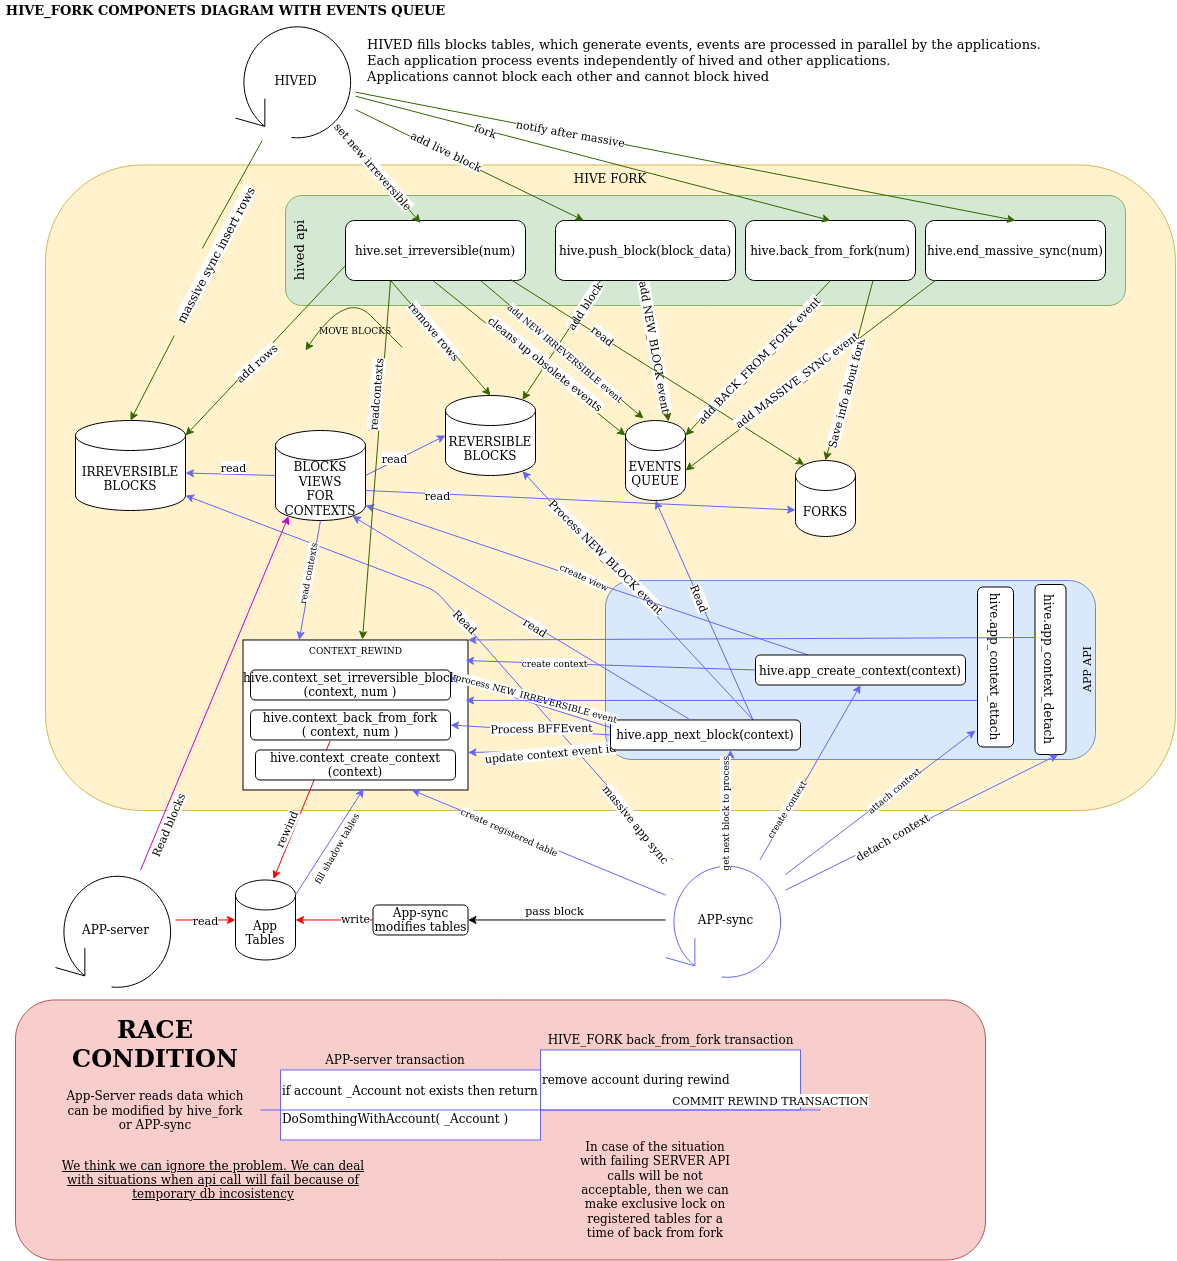
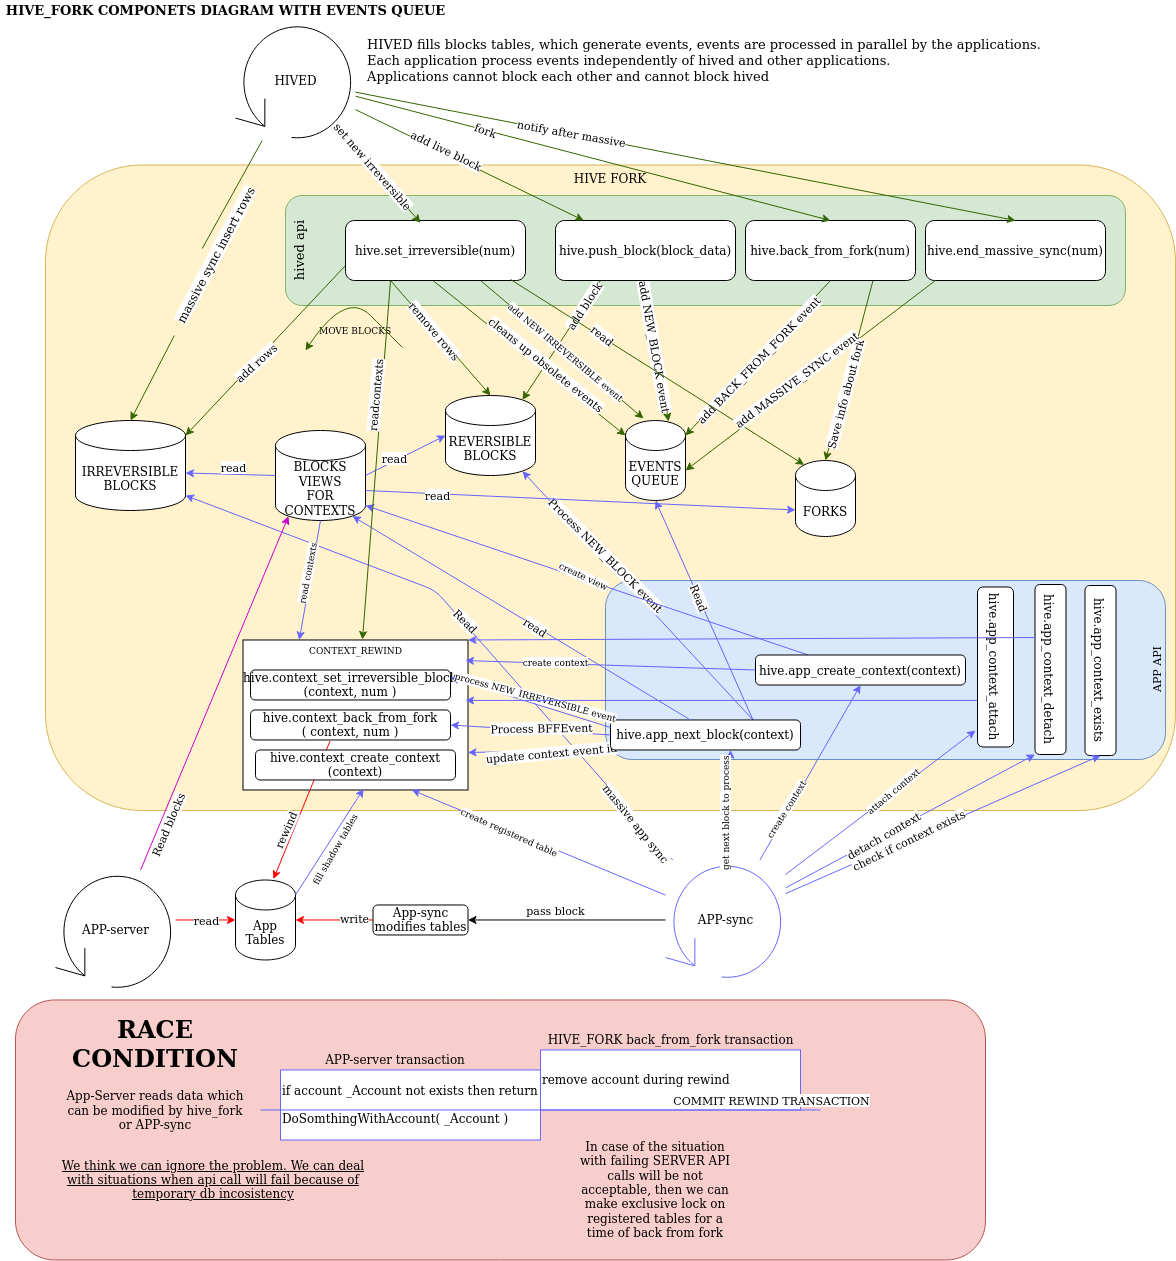
add application examples
non-forking and forking application in Python 3 added
it turned out that function to check if context exists is required by
the applications:  added hive.app_context_exists

diff --git a/src/hive_fork/doc/examples/hive_fork_app.py b/src/hive_fork/doc/examples/hive_fork_app.py
@@ -1,0 +1,100 @@
+#!/usr/bin/env python3
+
+import sqlalchemy
+
+APPLICATION_CONTEXT = "trx_histogram"
+SQL_CREATE_AND_REGISTER_HISTOGRAM_TABLE = """
+    CREATE TABLE IF NOT EXISTS public.trx_histogram(
+          day DATE
+        , trx INT
+        , CONSTRAINT pk_trx_histogram PRIMARY KEY( day ) )
+    INHERITS( hive.base )
+    """
+SQL_CREATE_UPDATE_HISTOGRAM_FUNCTION = """
+    CREATE OR REPLACE FUNCTION public.update_histogram( _first_block INT, _last_block INT )
+    RETURNS void
+    LANGUAGE plpgsql
+    VOLATILE
+    AS
+     $function$
+     BEGIN
+        INSERT INTO public.trx_histogram as th( day, trx )
+        SELECT
+              DATE(hb.created_at) as date
+            , COUNT(1) as trx
+        FROM hive.trx_histogram_blocks_view hb
+        JOIN hive.trx_histogram_transactions_view ht ON ht.block_num = hb.num
+        WHERE hb.num >= _first_block AND hb.num <= _last_block
+        GROUP BY DATE(hb.created_at)
+        ON CONFLICT ON CONSTRAINT pk_trx_histogram DO UPDATE
+        SET
+            trx = EXCLUDED.trx + th.trx
+        WHERE th.day = EXCLUDED.day;
+     END;
+     $function$
+    """
+
+def create_db_engine():
+    return sqlalchemy.create_engine(
+                "postgresql://marcin:marcin@localhost:5432/psql_tools_test_db", # this is only example of db
+                isolation_level="READ COMMITTED",
+                pool_size=1,
+                pool_recycle=3600,
+                echo=False)
+
+def prepare_application_data( db_connection ):
+        # create a new context only if it not already exists
+        exist = db_connection.execute( "SELECT hive.app_context_exists( '{}' )".format( APPLICATION_CONTEXT ) ).fetchone();
+        if exist[ 0 ] == False:
+            db_connection.execute( "SELECT hive.app_create_context( '{}' )".format( APPLICATION_CONTEXT ) )
+
+        # create and register a table
+        db_connection.execute( SQL_CREATE_AND_REGISTER_HISTOGRAM_TABLE )
+
+        # create SQL function to do the application's task
+        db_connection.execute( SQL_CREATE_UPDATE_HISTOGRAM_FUNCTION )
+
+def main_loop( db_connection ):
+    # forever loop
+    while True:
+        # start a new transaction
+        with db_connection.begin():
+            # get blocks range
+            blocks_range = db_connection.execute( "SELECT * FROM hive.app_next_block( '{}' )".format( APPLICATION_CONTEXT ) ).fetchone()
+
+            print( "Blocks range {}".format( blocks_range ) )
+            (first_block, last_block) = blocks_range;
+            # if no blocks are fetched then ask for new blocks again
+            if not first_block:
+                continue;
+
+            (first_block, last_block) = blocks_range;
+
+            # check if massive sync is required
+            if ( last_block - first_block ) > 100:
+                # Yes, massive sync is required
+                # detach context
+                db_connection.execute( "SELECT hive.app_context_detach( '{}' )".format( APPLICATION_CONTEXT ) )
+
+                # update massivly the application's table - one commit transaction for whole massive edition
+                db_connection.execute( "SELECT public.update_histogram( {}, {} )", first_block, last_block )
+
+                # attach context and moves it to last synced block
+                db_connection.execute( "SELECT hive.app_context_attach( '{}', {} )".format( APPLICATION_CONTEXT, last_block ) )
+                continue
+
+            # process the first block in range - one commit after each block
+            db_connection.execute( "SELECT public.update_histogram( {}, {} )".format( first_block, last_block ) )
+
+def start_application():
+    engine = create_db_engine()
+    with engine.connect() as db_connection:
+        prepare_application_data( db_connection )
+        main_loop( db_connection )
+
+if __name__ == '__main__':
+    try:
+        start_application()
+    except KeyboardInterrupt:
+        print( "Break by the user request" )
+        pass

diff --git a/src/hive_fork/doc/examples/hive_non_fork_app.py b/src/hive_fork/doc/examples/hive_non_fork_app.py
@@ -1,0 +1,99 @@
+#!/usr/bin/env python3
+
+import sqlalchemy
+
+APPLICATION_CONTEXT = "trx_histogram"
+SQL_CREATE_HISTOGRAM_TABLE = """
+    CREATE TABLE IF NOT EXISTS public.trx_histogram(
+          day DATE
+        , trx INT
+        , CONSTRAINT pk_trx_histogram PRIMARY KEY( day ) )
+    """
+SQL_CREATE_UPDATE_HISTOGRAM_FUNCTION = """
+    CREATE OR REPLACE FUNCTION public.update_histogram( _first_block INT, _last_block INT )
+    RETURNS void
+    LANGUAGE plpgsql
+    VOLATILE
+    AS
+     $function$
+     BEGIN
+        INSERT INTO public.trx_histogram as th( day, trx )
+        SELECT
+              DATE(hb.created_at) as date
+            , COUNT(1) as trx
+        FROM hive.trx_histogram_blocks_view hb
+        JOIN hive.trx_histogram_transactions_view ht ON ht.block_num = hb.num
+        WHERE hb.num >= _first_block AND hb.num <= _last_block
+        GROUP BY DATE(hb.created_at)
+        ON CONFLICT ON CONSTRAINT pk_trx_histogram DO UPDATE
+        SET
+            trx = EXCLUDED.trx + th.trx
+        WHERE th.day = EXCLUDED.day;
+     END;
+     $function$
+    """
+
+def create_db_engine():
+    return sqlalchemy.create_engine(
+                "postgresql://marcin:marcin@localhost:5432/psql_tools_test_db", # this is only example of db
+                isolation_level="READ COMMITTED",
+                pool_size=1,
+                pool_recycle=3600,
+                echo=False)
+
+def prepare_application_data( db_connection ):
+        # create a new context only if it not already exists
+        exist = db_connection.execute( "SELECT hive.app_context_exists( '{}' )".format( APPLICATION_CONTEXT ) ).fetchone();
+        if exist[ 0 ] == False:
+            db_connection.execute( "SELECT hive.app_create_context( '{}' )".format( APPLICATION_CONTEXT ) )
+
+        # create and register a table
+        db_connection.execute( SQL_CREATE_HISTOGRAM_TABLE )
+
+        # create SQL function to do the application's task
+        db_connection.execute( SQL_CREATE_UPDATE_HISTOGRAM_FUNCTION )
+
+def main_loop( db_connection ):
+    # forever loop
+    while True:
+        # start a new transaction
+        with db_connection.begin():
+            # get blocks range
+            blocks_range = db_connection.execute( "SELECT * FROM hive.app_next_block( '{}' )".format( APPLICATION_CONTEXT ) ).fetchone()
+
+            print( "Blocks range {}".format( blocks_range ) )
+            (first_block, last_block) = blocks_range;
+            # if no blocks are fetched then ask for new blocks again
+            if not first_block:
+                continue;
+
+            (first_block, last_block) = blocks_range;
+
+            # check if massive sync is required
+            if ( last_block - first_block ) > 100:
+                # Yes, massive sync is required
+                # detach context
+                db_connection.execute( "SELECT hive.app_context_detach( '{}' )".format( APPLICATION_CONTEXT ) )
+
+                # update massivly the application's table - one commit transaction for whole massive edition
+                db_connection.execute( "SELECT public.update_histogram( {}, {} )", first_block, last_block )
+
+                # attach context and moves it to last synced block
+                db_connection.execute( "SELECT hive.app_context_attach( '{}', {} )".format( APPLICATION_CONTEXT, last_block ) )
+                continue
+
+            # process the first block in range - one commit after each block
+            db_connection.execute( "SELECT public.update_histogram( {}, {} )".format( first_block, last_block ) )
+
+def start_application():
+    engine = create_db_engine()
+    with engine.connect() as db_connection:
+        prepare_application_data( db_connection )
+        main_loop( db_connection )
+
+if __name__ == '__main__':
+    try:
+        start_application()
+    except KeyboardInterrupt:
+        print( "Break by the user request" )
+        pass

diff --git a/src/hive_fork/Readme.md b/src/hive_fork/Readme.md
@@ -59,6 +59,33 @@ In summary, a non-forking application is coded in much the same way as a forking
 ### Important notice about irreversible data
 :warning: **Although reversible and irreversible block tables are directly visible to aplications, these tables should not be queried directly. It is expected that the structure of the underlying tables may change in the future, but the structure of a context's views will likely stay constant. This means that the applications which directly read the tables instead of the views may need to be refactored in the future to use newer versions of the fork manager.**
 
+### Examples of the application
+Two application examples written in Python3 were prapared. Both programs use `sqlalchemy` package as a databae engine. Programs
+are very simple, both of them collect number of transaction per day - they prepare histograms in a table named `trx_histogram`.
+One of the program is a non-forking application - it operates only on irreversible blocks and second application utilizes
+support for blockchain forks. Applications are available here:
+- forking application [doc/examples/hive_fork_app.py](./doc/examples/hive_fork_app.py)
+- non-forking application [doc/examples/hive_non_fork_app.py](./doc/examples/hive_non_fork_app.py)
+
+Actually both programs are different only in lines which create a 'trx_histogram' table - the table in forking application
+inherits from`hive.base` to register it into the context. Look at the differences in diff format:
+```diff
+--- hive_non_fork_app.py
++++ hive_fork_app.py
+@@ -6 +6 @@
+-SQL_CREATE_HISTOGRAM_TABLE = """
++SQL_CREATE_AND_REGISTER_HISTOGRAM_TABLE = """
+@@ -10,0 +11 @@
++    INHERITS( hive.base )
+@@ -51 +52 @@
+-        db_connection.execute( SQL_CREATE_HISTOGRAM_TABLE )
++        db_connection.execute( SQL_CREATE_AND_REGISTER_HISTOGRAM_TABLE )
+```
+
+:warning: At the moment there is no defined method to switch from non-forking application to forking one. This problem will be
+solved together with final solution for a method to register tables into context. 
+
+
 ### REVERSIBLE AND IRREVERSIBLE BLOCKS
 IRREVERSIBLE BLOCKS is a set of database tables for blocks which the blockchain considers irreversible - they will never change (i.e. they can no longer be reverted by a fork switch).
 These tables are defined in [src/hive_fork/irreversible_blocks.sql](./irreversible_blocks.sql)
